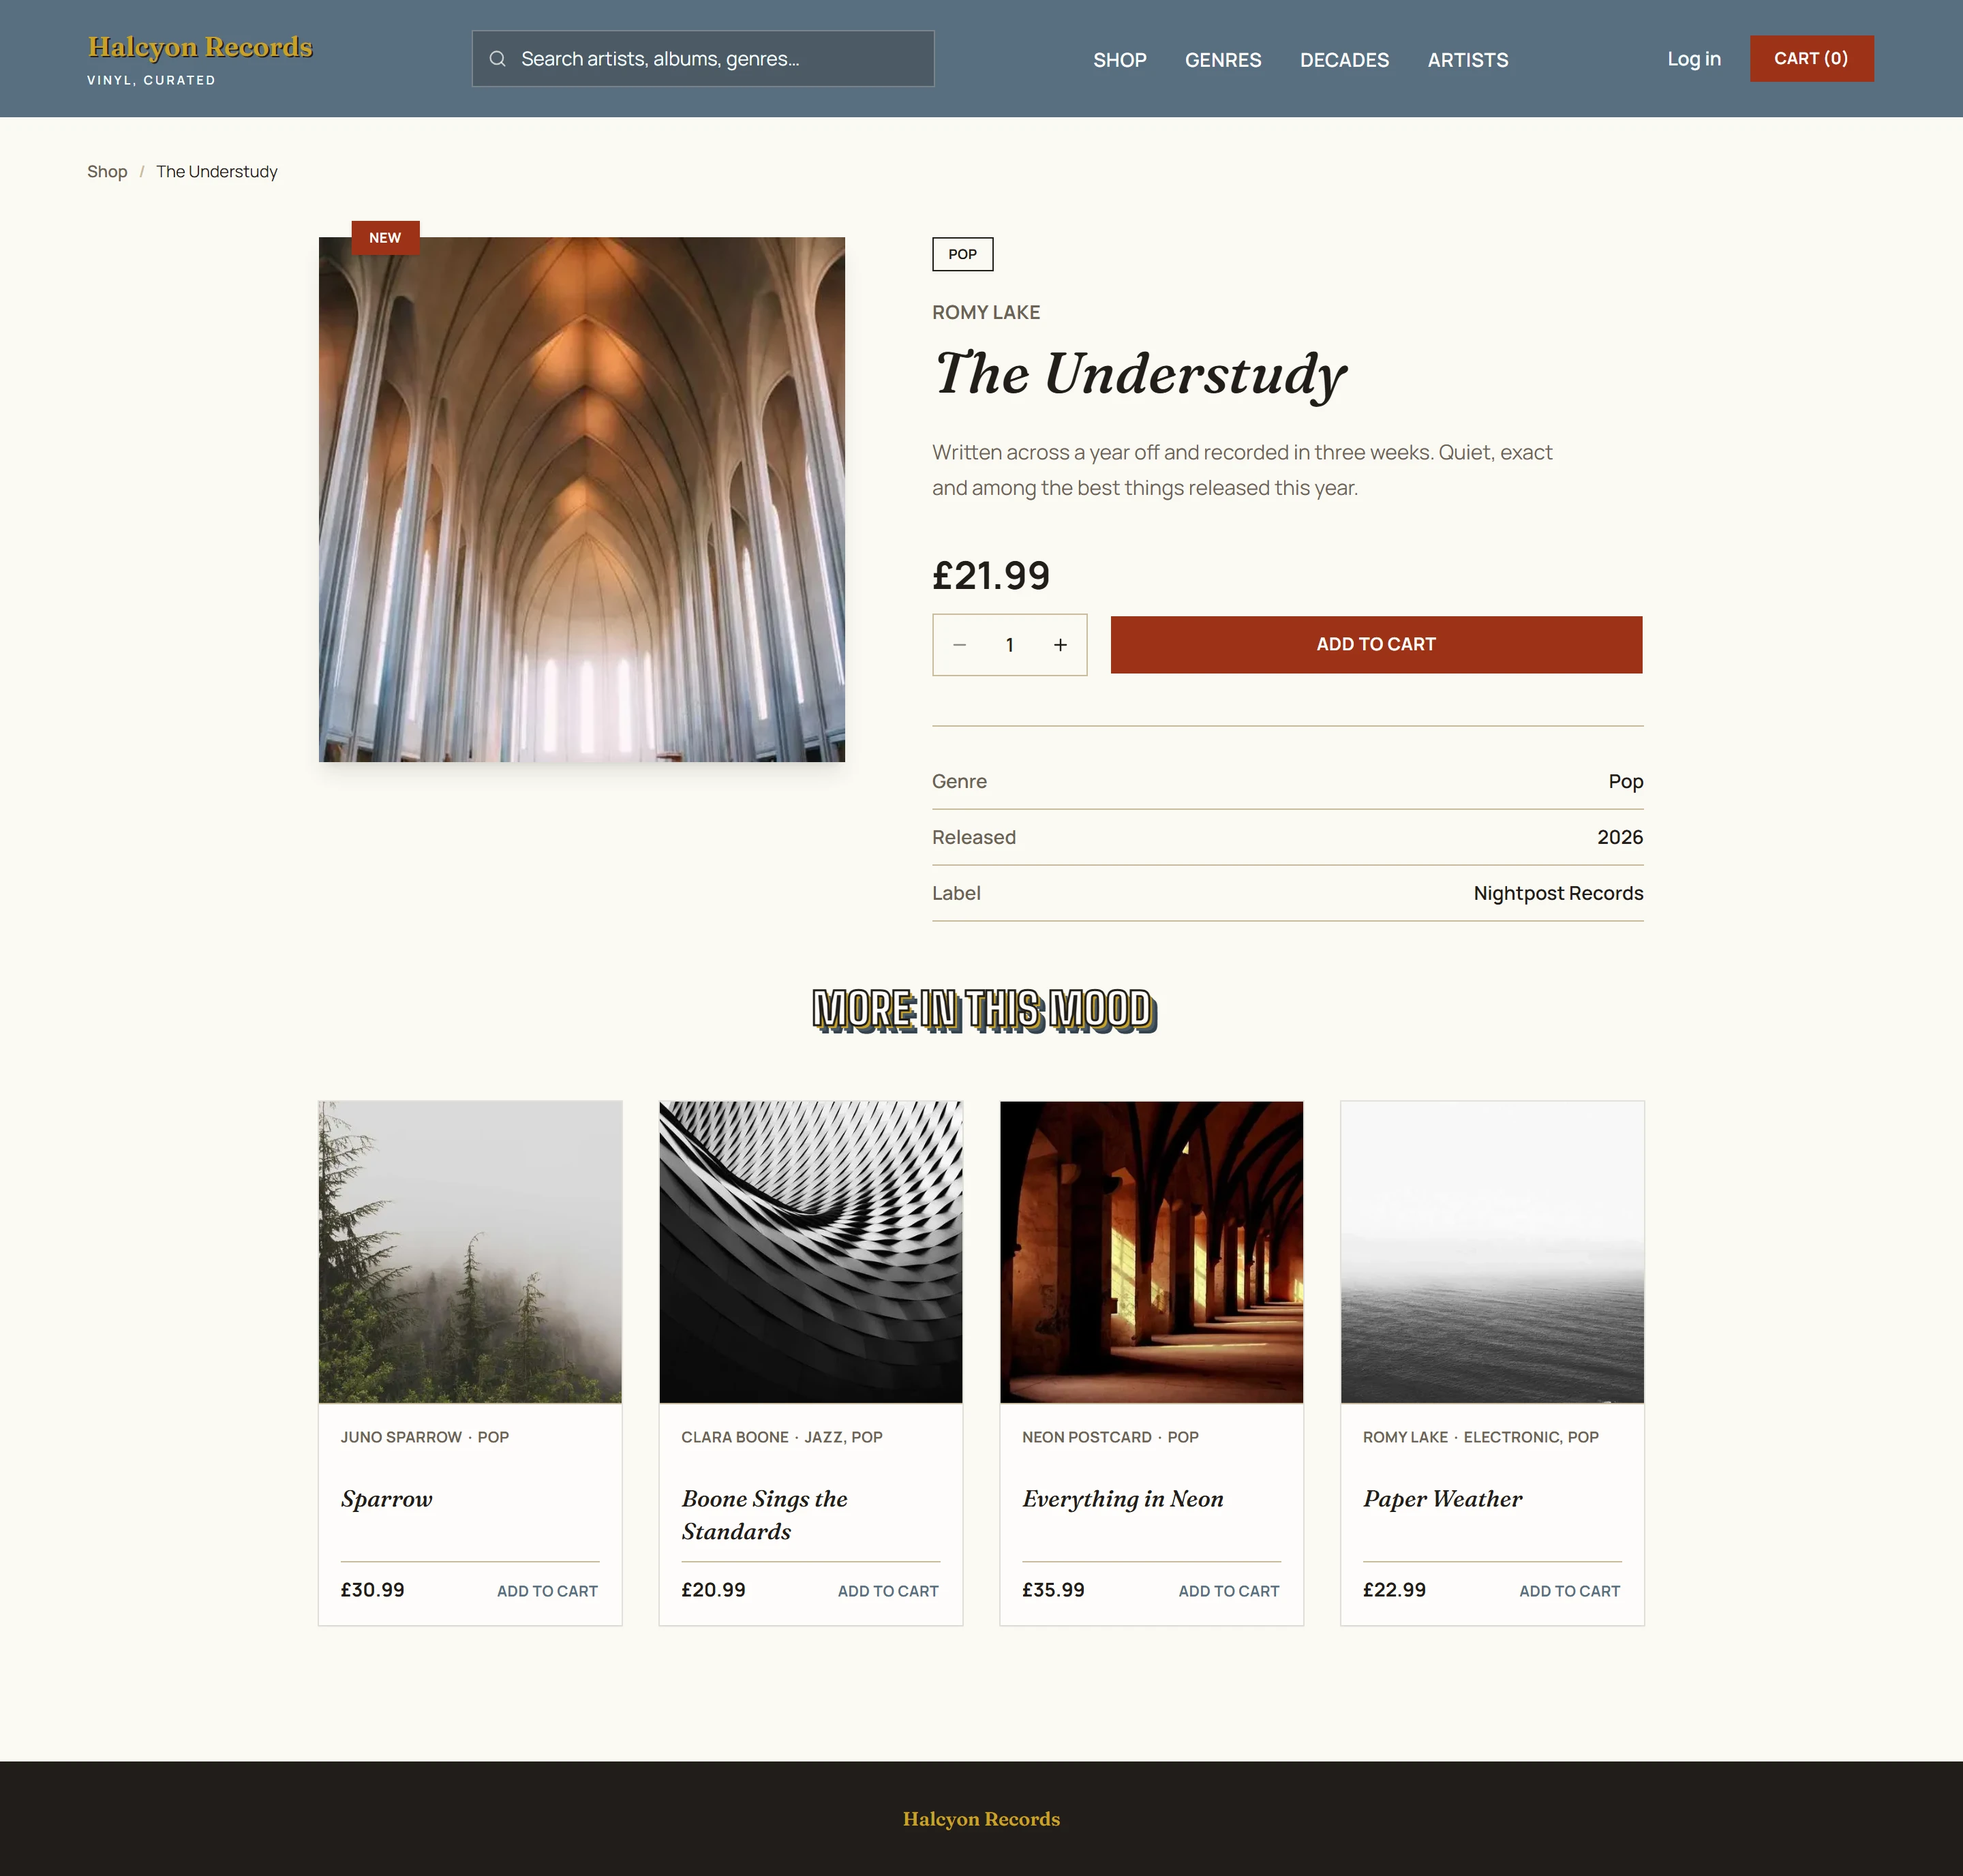
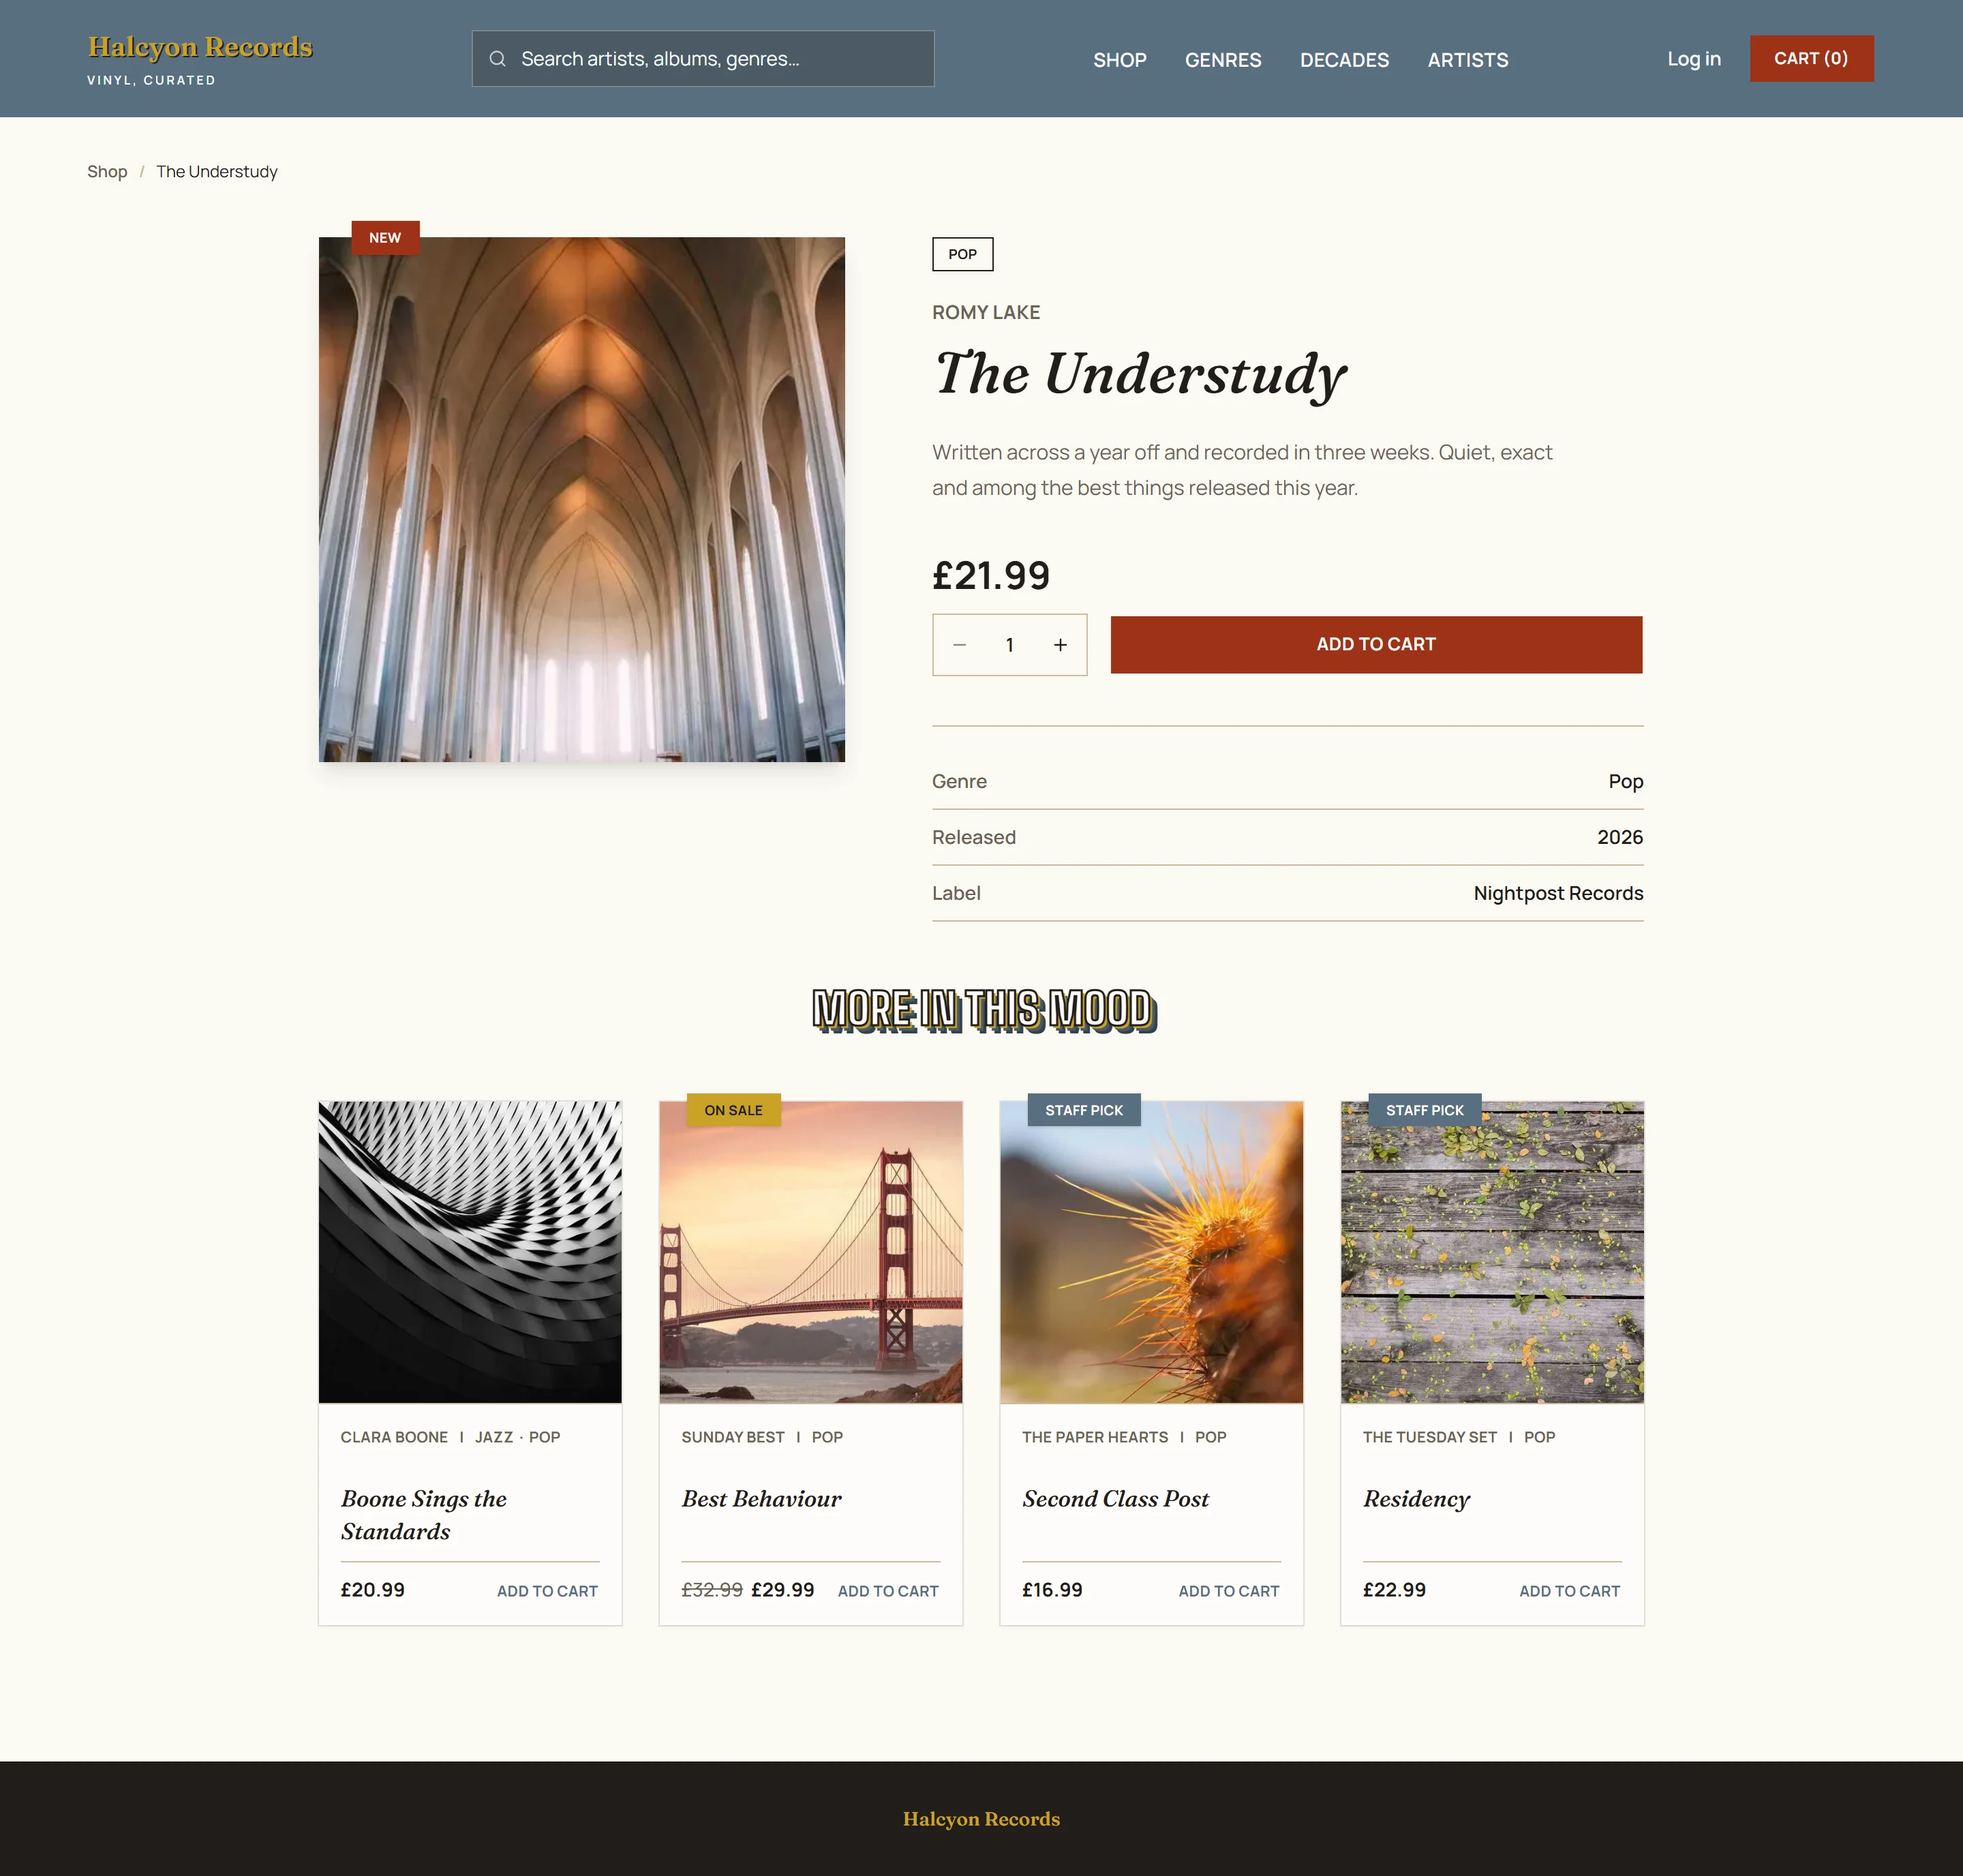
docs(frontend): replace the order history screenshot with cart and checkout

Changed region(s): [[0.1562, 0.5625, 0.8438, 0.875], [0.5312, 0.8438, 0.5625, 0.875]]

diff --git a/frontend/scripts/capture-screenshots.ts b/frontend/scripts/capture-screenshots.ts
@@ -74,11 +74,25 @@ async function main() {
   await page.waitForURL(/\/albums\//);
   await shoot("album-detail");
 
-  await page.goto(`${BASE_URL}/login?next=/account`);
+  await page.goto(`${BASE_URL}/shop`);
+  await settle();
+  await page.getByRole("button", { name: "Add to cart" }).nth(0).click();
+  await page.getByRole("button", { name: "Add to cart" }).nth(1).click();
+  await page.getByRole("link", { name: "Cart (2)" }).waitFor();
+
+  await page.goto(`${BASE_URL}/cart`);
+  await page.getByRole("heading", { name: "Your cart" }).waitFor();
+  await shoot("cart");
+
+  await page.getByRole("link", { name: "Checkout" }).click();
+  await page.waitForURL((url) => url.pathname === "/checkout");
+  await page.getByRole("link", { name: "Log in" }).click();
+  await page.waitForURL((url) => url.pathname === "/login");
   await settle();
   await page.getByRole("button", { name: "Try the demo account" }).click();
-  await page.waitForURL((url) => url.pathname === "/account");
-  await shoot("order-history");
+  await page.waitForURL((url) => url.pathname === "/checkout");
+  await page.getByRole("button", { name: /^Place order/ }).waitFor();
+  await shoot("checkout");
 
   await browser.close();
 }
